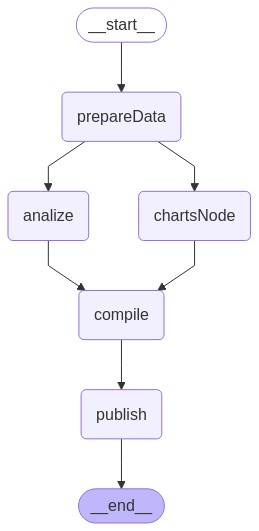
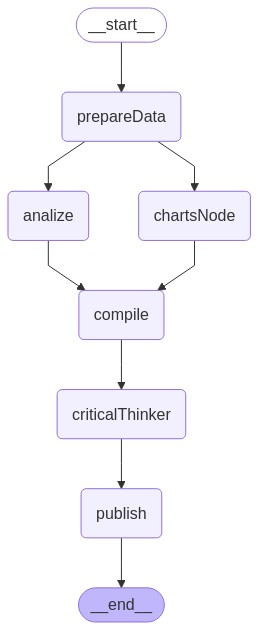
added uploading images to supabase with temporary links

diff --git a/graph.ts b/graph.ts
@@ -1,7 +1,11 @@
 import { Annotation, StateGraph } from "@langchain/langgraph";
 import { ChatOpenAI } from "@langchain/openai";
 import { externalChartConfig, externalGoals } from "./configs/config";
-import { createAnalizerAgent, createCopyWriterAgent } from "./utils/agents";
+import {
+  createAnalizerAgent,
+  createCopyWriterAgent,
+  createCriticalThinkerAgent,
+} from "./utils/agents";
 import { runAllReports, getGoals } from "./utils/data";
 import { GenerateSimpleChartNode } from "./utils/GenerateChart";
 import { markdownToBlocks } from "@tryfabric/martian";
@@ -48,6 +52,22 @@ async function AnalyzeNode(
   let analysisObj = { content };
   return {
     analysis: content,
+  };
+}
+
+async function CriticalThinker(
+  state: typeof StateAnnotation.State,
+): Promise<typeof StateAnnotation.Update> {
+  const llm = new ChatOpenAI({
+    apiKey: process.env.OPENAI_KEY,
+    model: "gpt-4.1-nano",
+  });
+  const criticalThinker = await createCriticalThinkerAgent({ llm: llm });
+  const refinedAnalysis = await criticalThinker.invoke({
+    reportMarkdown: state.reportMarkdown,
+  });
+  return {
+    reportMarkdown: refinedAnalysis.content,
   };
 }
 
@@ -104,7 +124,7 @@ async function PublishNode(state: typeof StateAnnotation.State) {
     const response = await notion.pages.create({
       parent: {
         type: "page_id",
-        page_id: "1dd9084199fe8059b5afdcd322a46554",
+        page_id: "1ee9084199fe809498dcf0c63d139419", // this page id or owkrspace it needs to be dynamically set
       },
       properties: {
         title: [
@@ -127,14 +147,16 @@ const workflow = new StateGraph(StateAnnotation)
   .addNode("analize", AnalyzeNode)
   .addNode("chartsNode", ChartsNode)
   .addNode("compile", CompileNode)
+  .addNode("criticalThinker", CriticalThinker)
   .addNode("publish", PublishNode)
   .addEdge("__start__", "prepareData")
   .addEdge("prepareData", "analize")
+  .addEdge("analize", "compile")
+  .addEdge("compile", "criticalThinker")
   //TODO:Would be awesome to have a node to apply critical thinking on the analisis
   .addEdge("prepareData", "chartsNode")
   .addEdge("chartsNode", "compile")
-  .addEdge("analize", "compile")
-  .addEdge("compile", "publish")
+  .addEdge("criticalThinker", "publish")
   .addEdge("publish", "__end__")
   .compile();
 

diff --git a/utils/agents.ts b/utils/agents.ts
@@ -24,6 +24,21 @@ export async function createAnalizerAgent({
   return promptTemplate.pipe(llm);
 }
 
+export async function createCriticalThinkerAgent({
+  llm,
+}: {
+  llm: ChatOpenAI;
+}): Promise<Runnable> {
+  let promptTemplate = PromptTemplate.fromTemplate(
+    `Translate the following analysis to Spanish, respect the markdown format do not change anything else
+    REPORT: {reportMarkdown}
+
+`,
+  );
+
+  return promptTemplate.pipe(llm);
+}
+
 export async function createCopyWriterAgent({
   llm,
 }: {

diff --git a/utils/data.ts b/utils/data.ts
@@ -1,10 +1,10 @@
 // reports/index.ts
 import { BetaAnalyticsDataClient } from "@google-analytics/data";
-import { promises as fs, readv } from "fs";
+import { promises as fs } from "fs";
 import path from "path";
 
 const analyticsDataClient = new BetaAnalyticsDataClient();
-const propertyId = "properties/442724200"; // more clear
+const propertyId = `properties/${process.env.PROPERTY_ID}`; // more clear
 
 type ReportResult = Record<string, any>;
 
